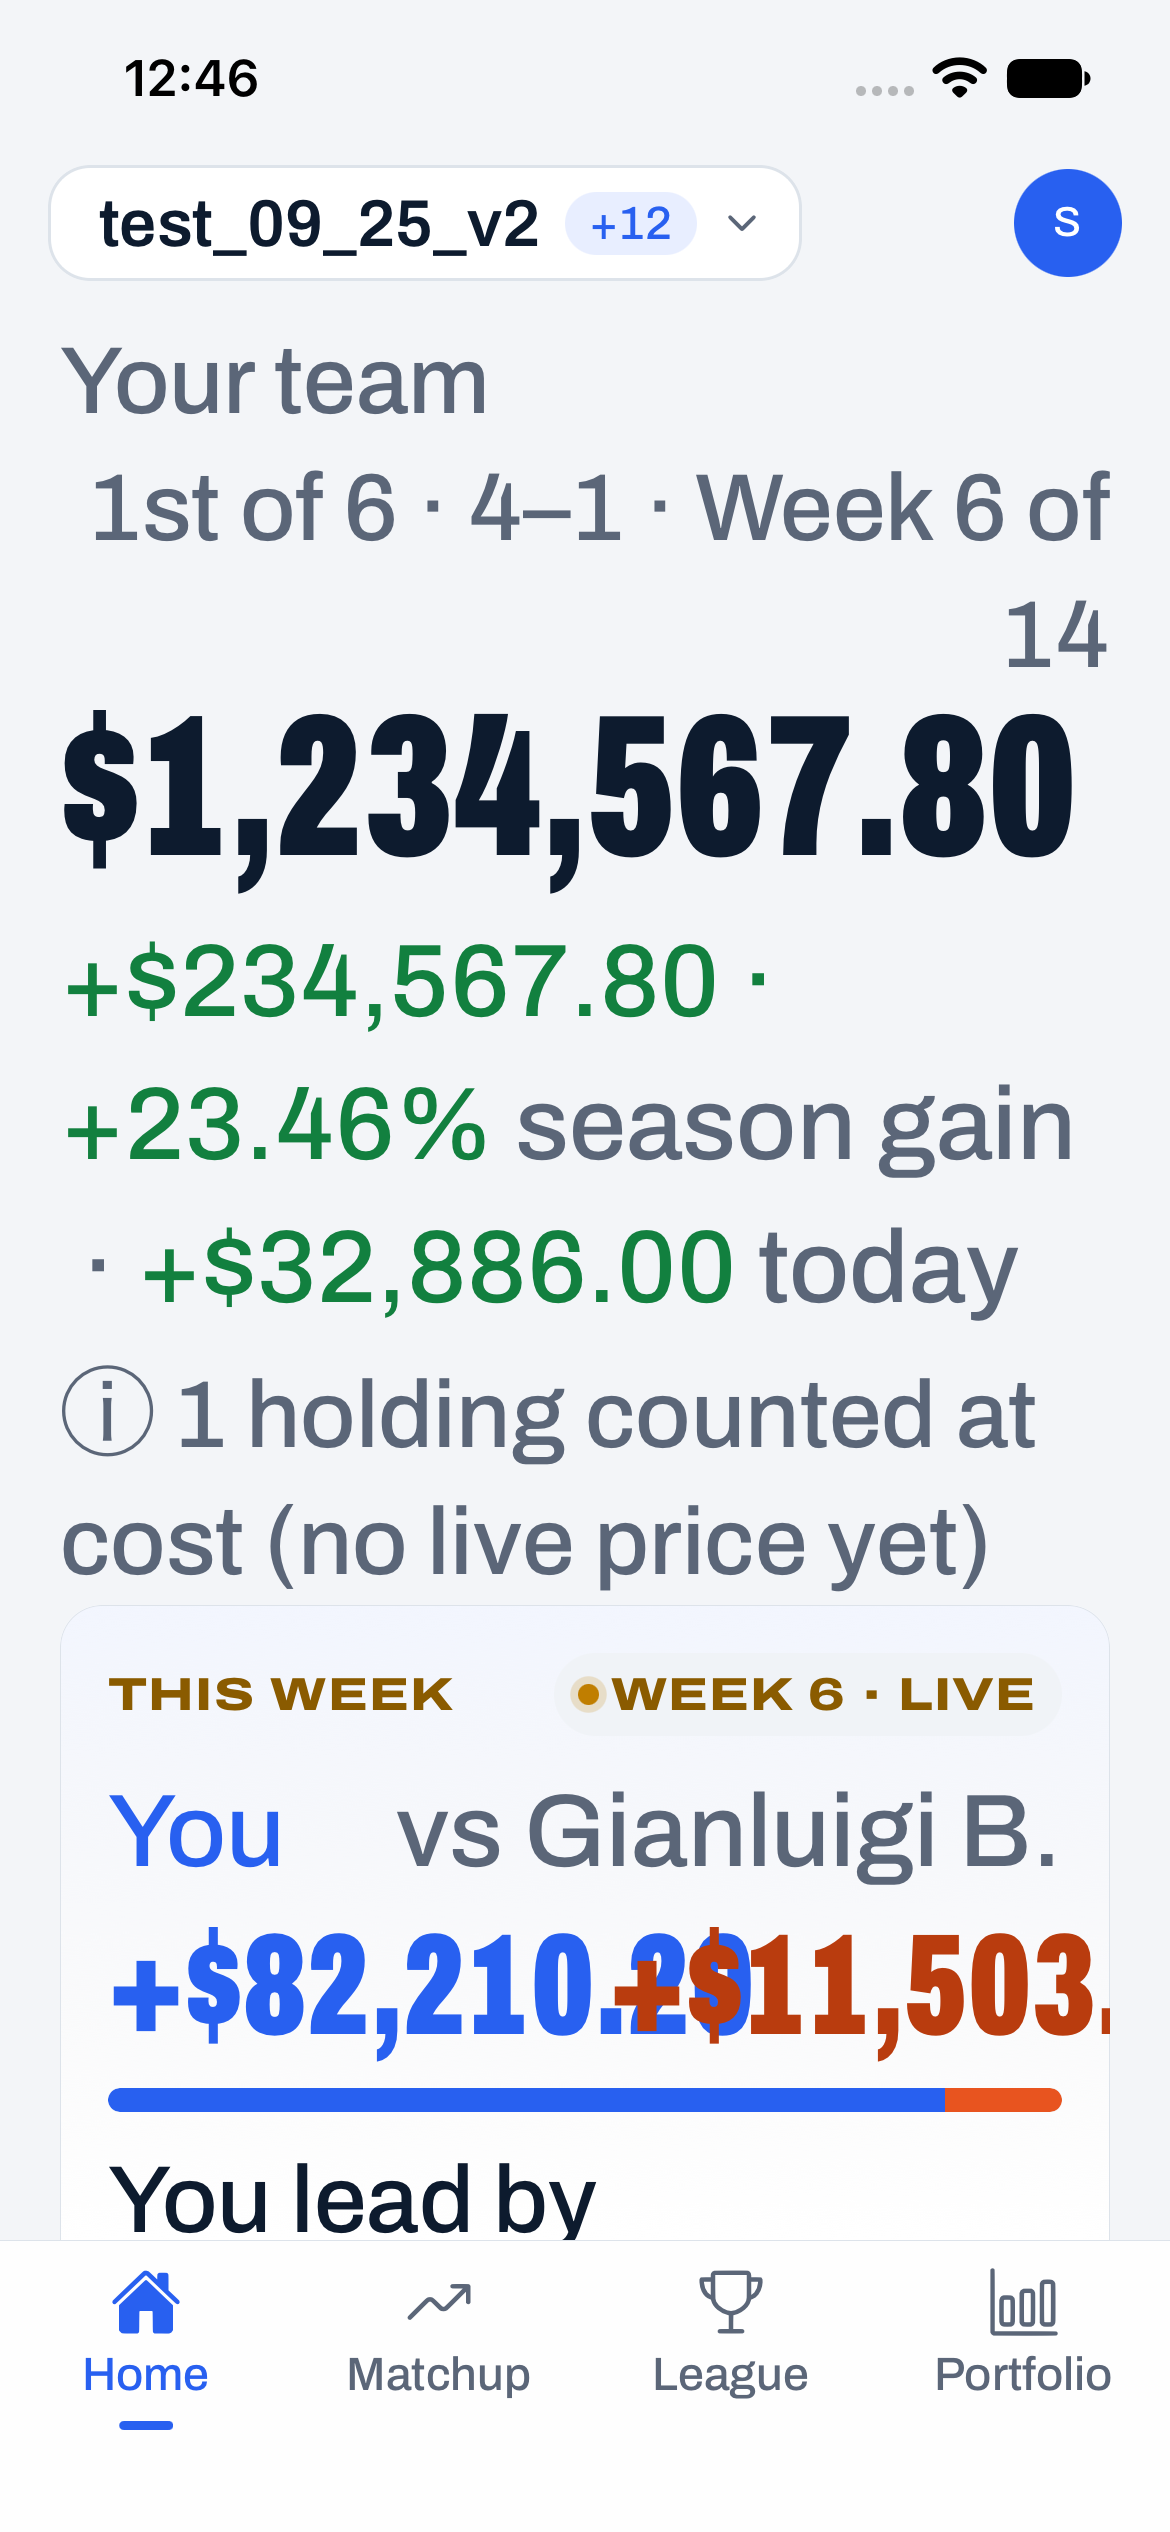
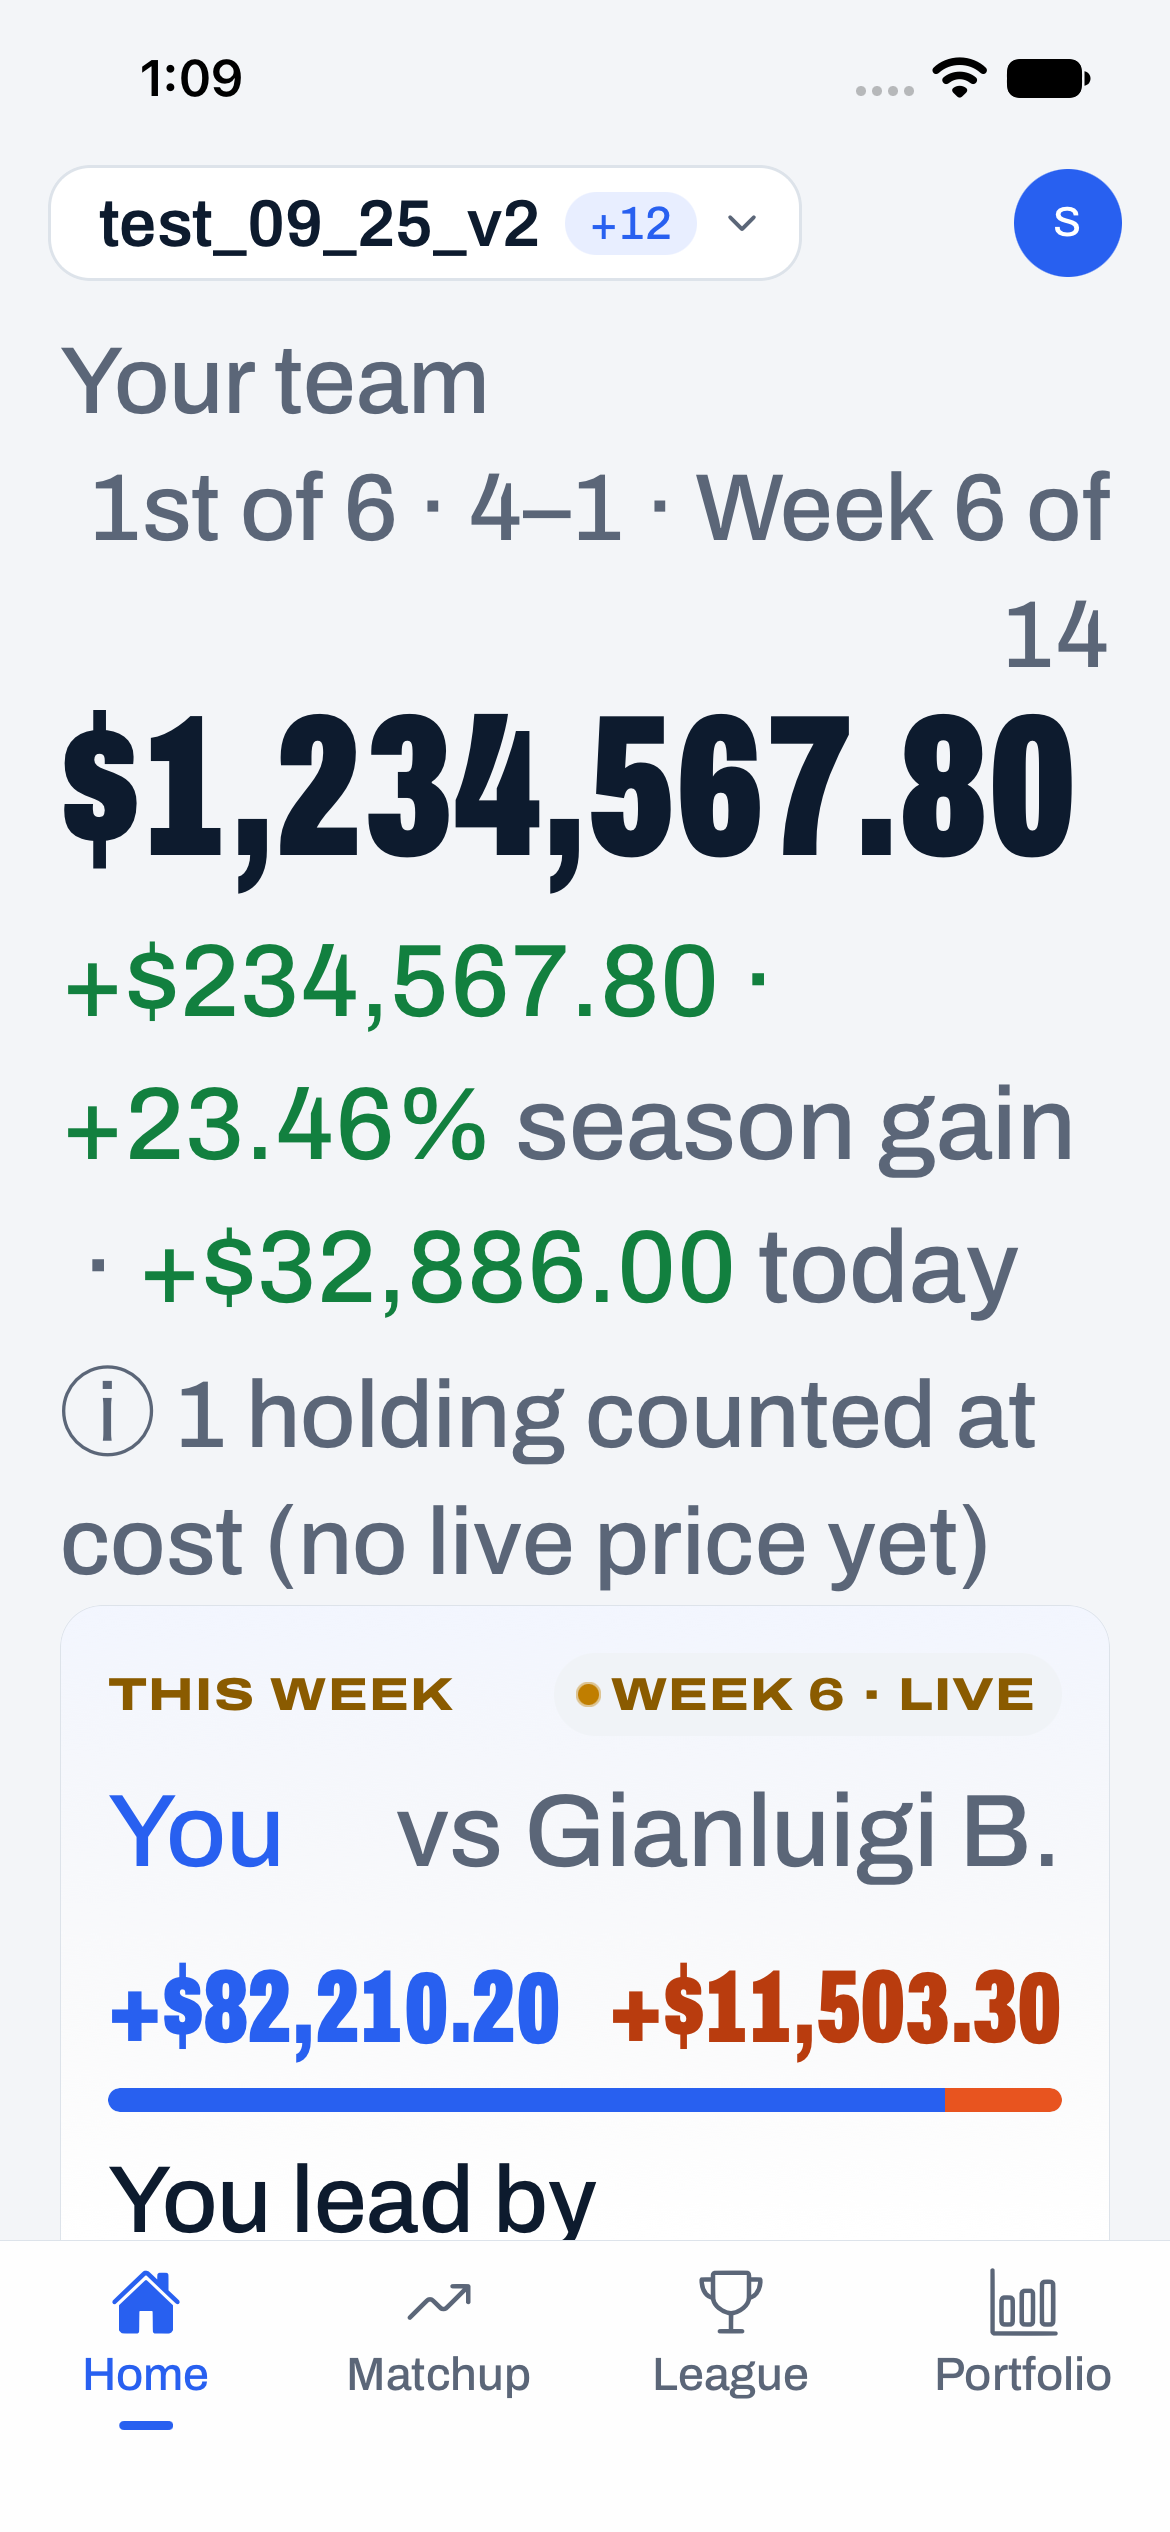
docs(design): re-shoot home-hero-million-xl-light, rename the stale one
Design Lead X-1 final re-check nit: the 12:46 home-hero-million-xl-light.png
predated the ScoreDigits/scoreCell overlap fix and still showed the
scoreboard overlapping underneath the hero. Renamed that capture to
home-hero-million-xl-light-before.png (context only, not current) and
replaced the original filename with a fresh capture on the 17e, same
fixture and text size, showing both the hero and the now-fixed
scoreboard together.

Changed region(s): [[0.0923, 0.7488, 0.9538, 0.8112], [0.1231, 0.0, 0.2154, 0.0624], [0.4923, 0.6552, 0.5231, 0.6864]]

diff --git a/docs/design/captures/ui-mobile-money/README.md b/docs/design/captures/ui-mobile-money/README.md
@@ -58,12 +58,12 @@ correction, `f6e0ab2b`) for the code and its Deno tests.
 | File(s) | Proves |
 |---|---|
 | `portfolio-buyrow-xl-light.png` | Re-capture, same screen as C-10's XL state above: `$14,446,031.99` now renders in full at XL text, shrunk to fit, no clip. |
-| `home-hero-million-xl-light.png` | Home's hero (the same `RollingMoney`) at XL with a value of $1,000,000 or more (`$1,234,567.80`, the `xl_million` DEV fixture) — the Design Lead asked for this case specifically, since a fix proven only on Portfolio wouldn't prove the shared component. |
+| `home-hero-million-xl-light.png` | Home's hero (the same `RollingMoney`) at XL with a value of $1,000,000 or more (`$1,234,567.80`, the `xl_million` DEV fixture) — the Design Lead asked for this case specifically, since a fix proven only on Portfolio wouldn't prove the shared component. Re-shot after the scoreboard fix below (Design Lead final re-check, 2026-10-07): the original 12:46 capture predated that fix and still showed the overlap underneath the hero — kept as `home-hero-million-xl-light-before.png` for context, not current. |
 | `search-ownership-standard-light.png`, `…-dark.png` | Re-capture at default text size, unrelated to X-1 — confirms C-2 (own-line ownership text) still holds after the merge brought in main's changes since `ui/mobile-money` diverged. |
 
 ### A follow-up bug the first re-capture surfaced: the scoreboard overlap
 
-The `home-hero-million-xl-light.png` capture above showed a SECOND, separate
+The `home-hero-million-xl-light-before.png` capture above showed a SECOND, separate
 bug below the hero: Home's "This week" card (`ThisWeekCard.tsx`) had its two
 `ScoreDigits` values ("You" / the opponent) overlapping mid-row at $1M+.
 Despite looking like the same shape of bug, it was NOT RollingMoney/X-1 —
